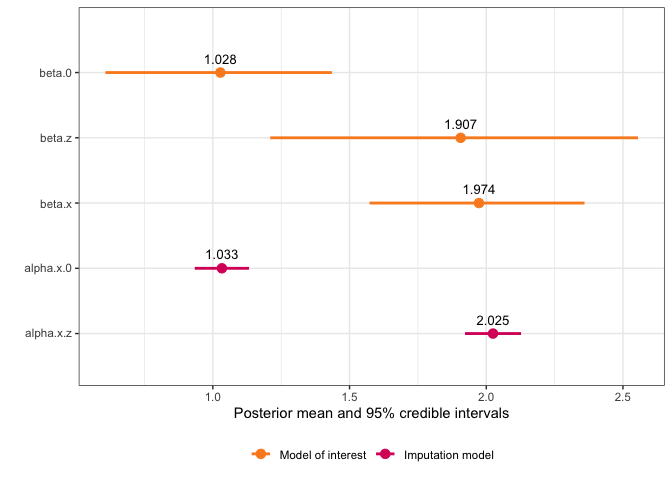
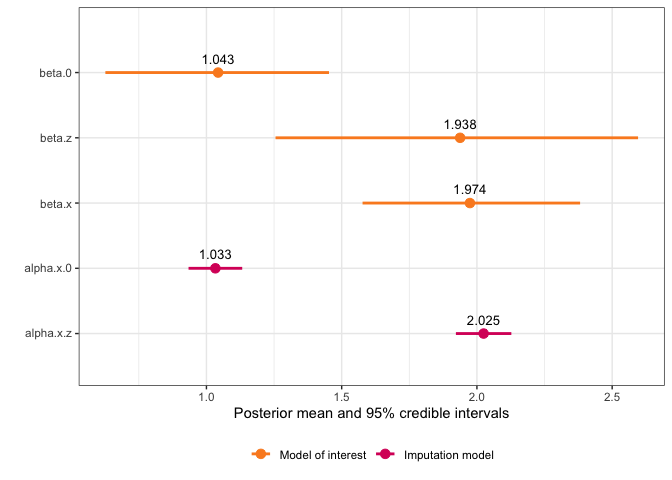
CRAN install instructions

diff --git a/README.md b/README.md
@@ -18,7 +18,13 @@ missing data modelling in R-INLA much more feasible.
 
 ## Installation
 
-You can install the development version of inlamemi from
+You can install the package directly from CRAN with:
+
+``` r
+install.packages("inlamemi)
+```
+
+Alternatively, you can install the development version of inlamemi from
 [GitHub](https://github.com/) with:
 
 ``` r
@@ -148,29 +154,29 @@ summary(simple_model)
 #> 
 #> Fixed effects for model of interest: 
 #>            mean        sd 0.025quant 0.5quant 0.975quant     mode
-#> beta.0 1.027717 0.2184872  0.6069139 1.025596   1.435443 0.985928
-#> beta.z 1.906503 0.3874348  1.2098316 1.891747   2.555251 1.901931
+#> beta.0 1.043089 0.2182433  0.6263696 1.045710   1.453109 1.043113
+#> beta.z 1.937915 0.3871866  1.2554001 1.939415   2.595717 1.938674
 #> 
 #> Coefficient for variable with measurement error and/or missingness: 
 #>            mean        sd 0.025quant 0.5quant 0.975quant     mode
-#> beta.x 1.973527 0.1997225   1.573013  1.97601   2.359344 1.986598
+#> beta.x 1.974116 0.2042589    1.57718 1.972357    2.38141 1.964934
 #> 
 #> Fixed effects for imputation model: 
 #>               mean         sd 0.025quant 0.5quant 0.975quant     mode
-#> alpha.x.0 1.033077 0.05060139  0.9338065 1.033085   1.132303 1.033085
-#> alpha.x.z 2.024714 0.05226368  1.9222550 2.024697   2.127271 2.024697
+#> alpha.x.0 1.033076 0.05059015  0.9338265 1.033084   1.132279 1.033084
+#> alpha.x.z 2.024718 0.05225222  1.9222813 2.024700   2.127253 2.024700
 #> 
 #> Model hyperparameters (apart from beta.x): 
 #>                                      mean        sd 0.025quant  0.5quant
-#> Precision for model of interest 1.1316556 0.3623018  0.5709097 1.0814815
-#> Precision for x berkson model   1.1271145 0.3386565  0.5960700 1.0823296
-#> Precision for x classical model 0.9252548 0.1078315  0.7334221 0.9182750
-#> Precision for x imp model       0.9777604 0.1243289  0.7539687 0.9706106
+#> Precision for model of interest 1.1267858 0.3735353  0.5633981 1.0704972
+#> Precision for x berkson model   1.1345684 0.3576183  0.5974388 1.0798565
+#> Precision for x classical model 0.9275802 0.1121391  0.7241594 0.9216585
+#> Precision for x imp model       0.9763580 0.1273814  0.7526279 0.9671530
 #>                                 0.975quant      mode
-#> Precision for model of interest   1.981515 0.9890411
-#> Precision for x berkson model     1.916427 0.9996081
-#> Precision for x classical model   1.157423 0.9030051
-#> Precision for x imp model         1.242635 0.9577273
+#> Precision for model of interest   2.016658 0.9664441
+#> Precision for x berkson model     1.990504 0.9772337
+#> Precision for x classical model   1.164976 0.9114524
+#> Precision for x imp model         1.253325 0.9471440
 ```
 
 And we can use the default plot function to see a plot of the fixed
